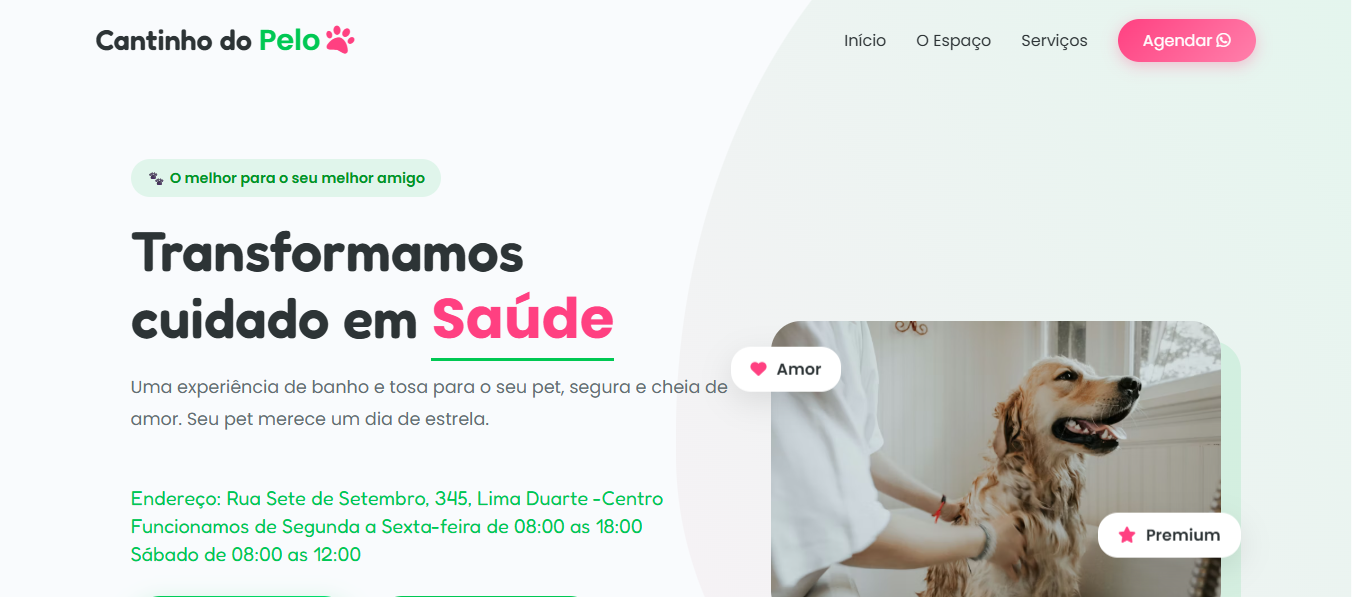
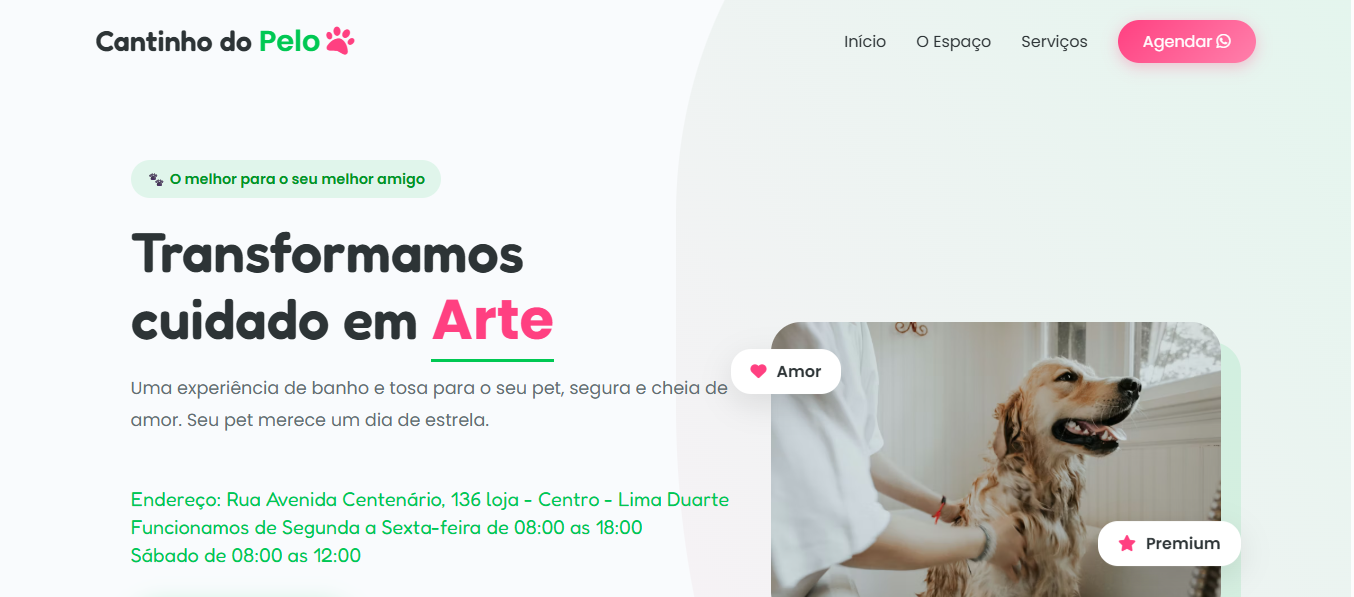
Alteração na imagem do README, e ajustes no html

diff --git a/index.html b/index.html
@@ -92,7 +92,7 @@
                     <span class="badge">🐾 O melhor para o seu melhor amigo</span>
                     <h1>Transformamos cuidado em <span class="typewriter" data-text="Arte,Carinho,Beleza,Saúde"></span></h1>
                     <p>Uma experiência de banho e tosa para o seu pet, segura e cheia de amor. Seu pet merece um dia de estrela.</p>
-                     <a href="https://maps.app.goo.gl/7wnV6m5DAG4Ekx8HA" title="Clique Aqui"><h2>Endereço: Rua Sete de Setembro, 345, Lima Duarte -Centro <br> Funcionamos de Segunda a Sexta-feira de 08:00 as 18:00<br>Sábado de 08:00 as 12:00</h2></a>
+                     <a href="https://maps.app.goo.gl/7wnV6m5DAG4Ekx8HA" title="Clique Aqui"><h2>Endereço: Rua Avenida Centenário, 136 loja - Centro - Lima Duarte <br> Funcionamos de Segunda a Sexta-feira de 08:00 as 18:00<br>Sábado de 08:00 as 12:00</h2></a>
                     <div class="hero-btns">
                         <a href="https://wa.me/5532999236625" class="btn-primary pulse">Agendar Horário <i class="fa-brands fa-whatsapp"></i></a>
                         <a href="#servicos" class="btn-secondary">Conhecer Serviços</a>
@@ -287,7 +287,7 @@
             <div class="footer-brand">
                 <h3>Cantinho do Pelo</h3>
                 <p>Tecnologia e amor em cada detalhe.</p>
-                <h2>Endereço: Rua Sete de Setembro, 345, Lima Duarte -Centro <br> Funcionamos de Segunda a Sexta feira de 08:00 as 18:00 <br> Sábado de 08:00 as 12:00</h2>
+                <h2>Endereço: Rua Avenida Centenário, 136 loja - Centro - Lima Duarte <br> Funcionamos de Segunda a Sexta feira de 08:00 as 18:00 <br> Sábado de 08:00 as 12:00</h2>
             </div>
             <div class="socials">
                 <a href="#" class="social-btn"><i class="fa-brands fa-instagram"></i></a>
